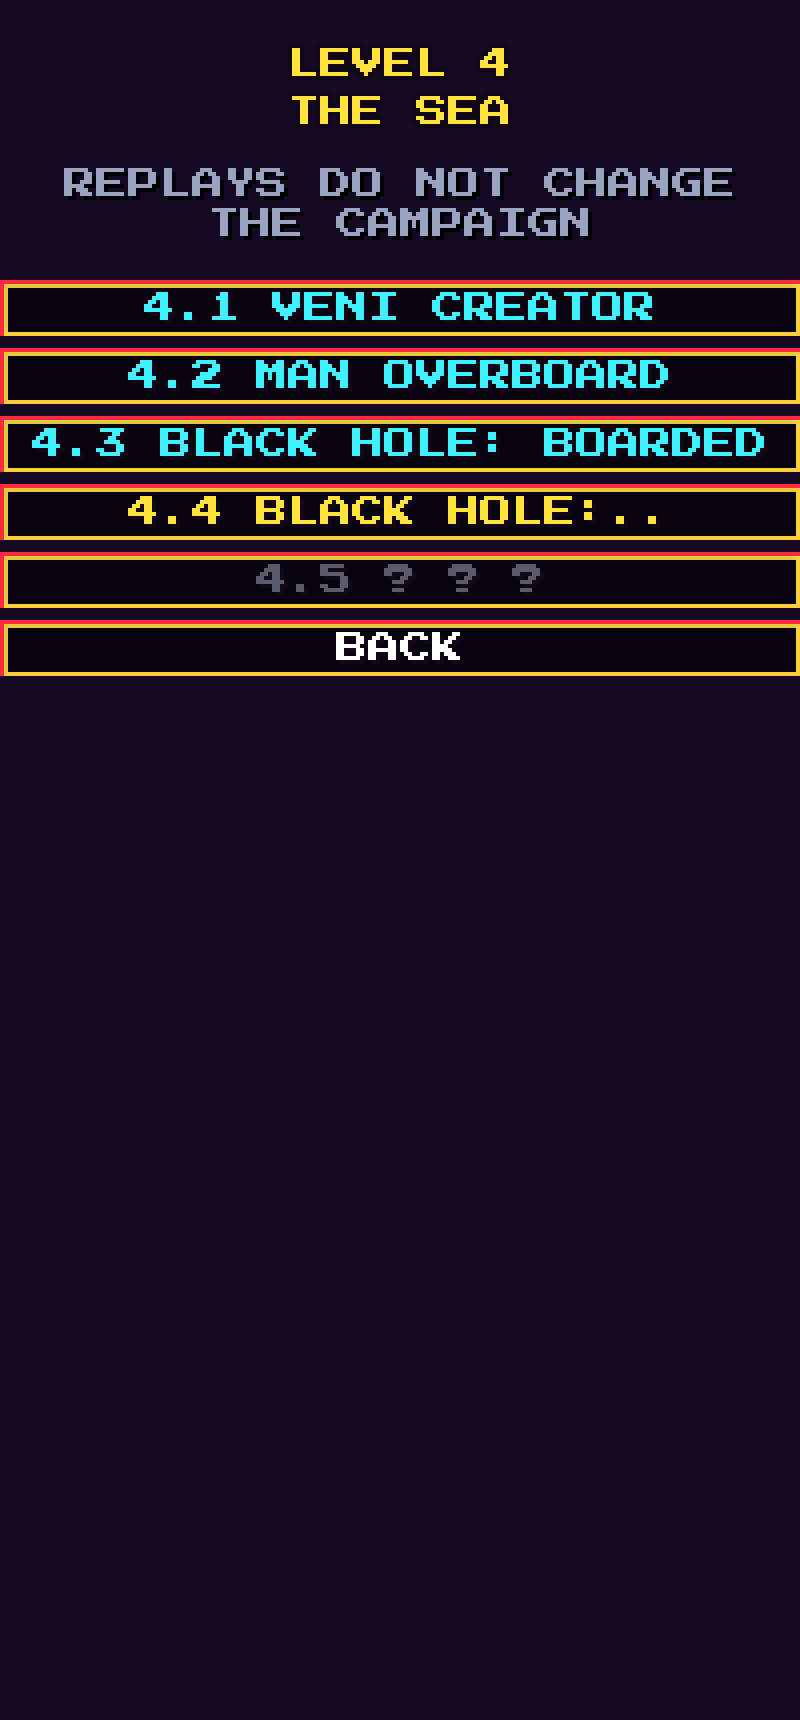
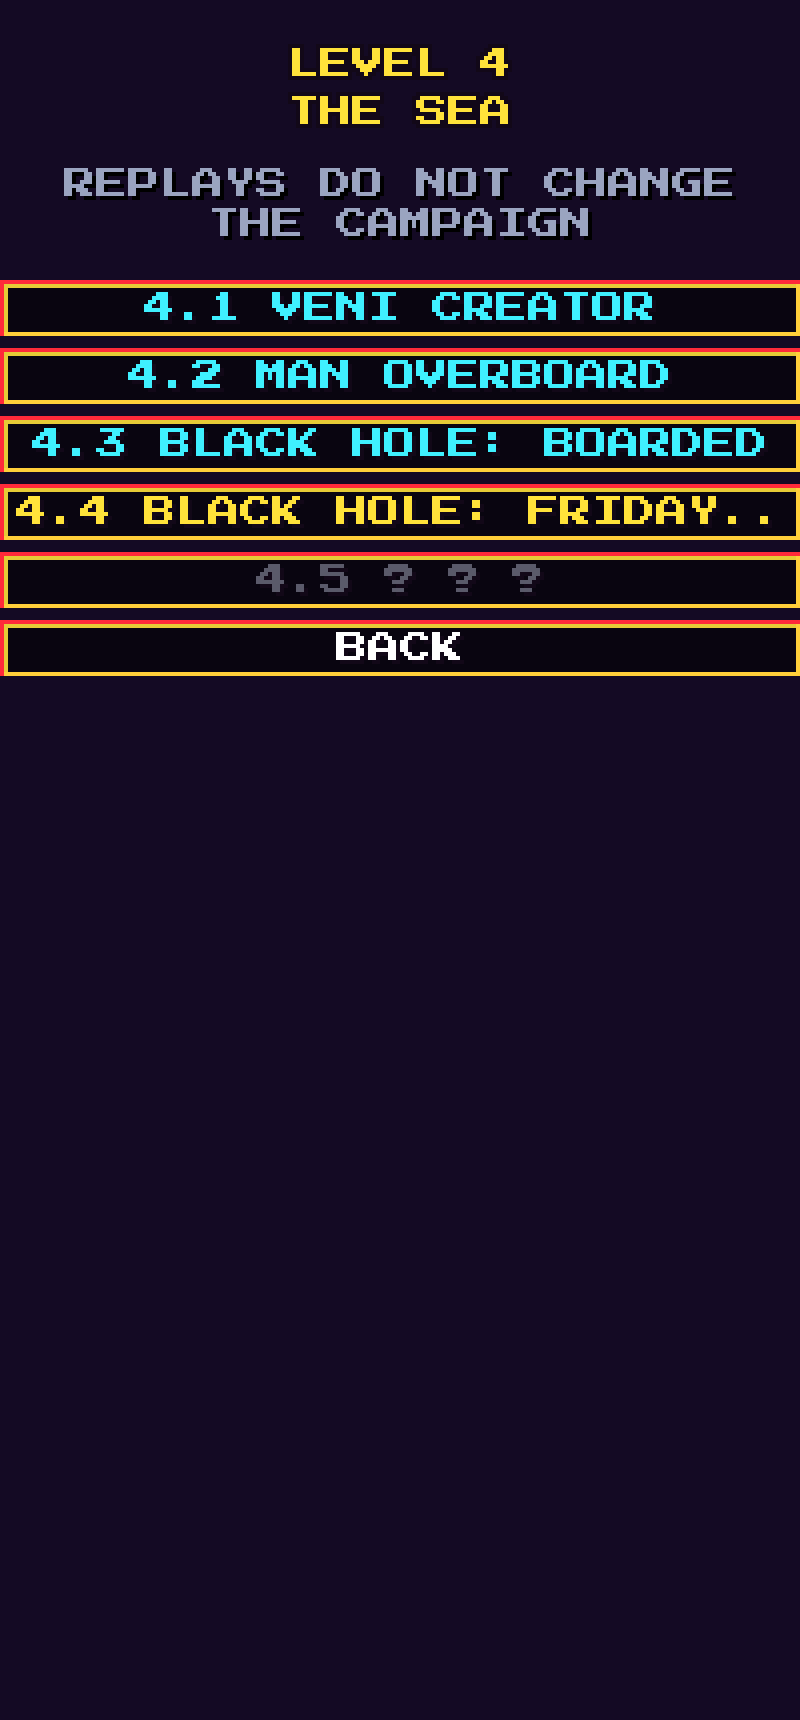
Fix review findings in the story engine
- RESTART SCENE no longer fades Commozione again (only a fresh visit does).
- Pace relief counts only companions who fell in and follow him, not
  bystanders who stayed back (Saint-Pol, Sbrimbrulon, Watson by Standing).
- Clamp the autopilot skill URL parameter; autopilot timers use the step dt;
  autopilot tuning moved to STORY.PILOT in config.ts.
- Meraviglia book builds each row's text once and frees it on close.
- Level list truncation keeps a complete last word.

Claude-Session: https://claude.ai/code/session_01M83brc3uYNtkMe9oqkk4LQ

Changed region(s): [[0.1562, 0.2773, 0.9062, 0.3081], [0.0938, 0.2773, 0.125, 0.3081], [0.0312, 0.2773, 0.0625, 0.3081]]

diff --git a/src/story/screens.ts b/src/story/screens.ts
@@ -155,7 +155,10 @@ export class StoryChapterScene implements Scene {
       const open = done || k === firstOpen;
       // Fit the 200-px row: cut at a word boundary and mark the cut.
       let label = `${sub.id} ${sub.title.toUpperCase()}`;
-      if (label.length > 24) label = label.slice(0, 22).replace(/\s+\S*$/, '') + '..';
+      if (label.length > 24) {
+        const cut = label.slice(0, 22);
+        label = (label[22] === ' ' ? cut : cut.replace(/\s+\S*$/, '')).trimEnd() + '..';
+      }
       return {
         label: open ? label : `${sub.id} ? ? ?`,
         action: () => (open ? actions.play(sub) : this.game.audio.play('empty')),
@@ -273,6 +276,8 @@ export class BookScene implements Scene {
   private readonly foot = new PixelText('', { color: '#6a4a20' }).setOrigin(0.5, 0);
   private rows: BookRow[] = [];
   private pages: BookRow[][] = [];
+  /** One text per row, built once per layout and reused for paging and drawing. */
+  private texts = new Map<BookRow, PixelText>();
   private page = 0;
   private w = 216;
   private h = 400;
@@ -332,27 +337,40 @@ export class BookScene implements Scene {
     this.page = Math.min(this.page, this.pages.length - 1);
   }
 
-  private makeText(r: BookRow): PixelText {
-    return new PixelText(r.text, { color: r.head ? '#8a2a10' : '#3a2410', maxWidth: this.w - (r.icon ? 40 : 24), lineGap: 2 });
+  private textFor(r: BookRow): PixelText {
+    let t = this.texts.get(r);
+    if (!t) {
+      t = new PixelText(r.text, { color: r.head ? '#8a2a10' : '#3a2410', maxWidth: this.w - (r.icon ? 40 : 24), lineGap: 2 });
+      this.texts.set(r, t);
+    }
+    return t;
   }
 
   private rowHeight(r: BookRow): number {
     if (!r.text) return 6;
-    const t = this.makeText(r);
-    const hgt = Math.max(r.icon ? 12 : 0, t.textHeight) + 4;
-    t.destroy();
-    return hgt;
+    return Math.max(r.icon ? 12 : 0, this.textFor(r).textHeight) + 4;
+  }
+
+  exit(): void {
+    this.clearTexts();
+  }
+
+  private clearTexts(): void {
+    this.pageRoot.removeChildren();
+    for (const t of this.texts.values()) t.destroy();
+    this.texts.clear();
   }
 
   private show(): void {
-    for (const c of this.pageRoot.removeChildren()) c.destroy();
+    // Texts are owned by `texts`; icons are made per page.
+    for (const c of this.pageRoot.removeChildren()) if (!(c instanceof PixelText)) c.destroy();
     let y = 40;
     for (const r of this.pages[this.page] ?? []) {
       if (!r.text) {
         y += 6;
         continue;
       }
-      const t = this.makeText(r);
+      const t = this.textFor(r);
       let x = 12;
       if (r.icon) {
         const icon = new Sprite(textures.get(spriteName(r.icon)));
@@ -363,7 +381,7 @@ export class BookScene implements Scene {
       }
       t.position.set(x, y);
       this.pageRoot.addChild(t);
-      y += Math.max(r.icon ? 12 : 0, t.textHeight) + 4;
+      y += this.rowHeight(r);
     }
     this.foot.setText(`PAGE ${this.page + 1}/${this.pages.length}  TAP: NEXT`);
   }
@@ -376,6 +394,7 @@ export class BookScene implements Scene {
     this.bg.rect(4, 4, w - 8, 2).fill(0xc8a060);
     this.title.position.set(Math.round(w / 2), 10);
     this.foot.position.set(Math.round(w / 2), h - 18);
+    this.clearTexts();
     this.build();
     this.paginate();
     this.show();

diff --git a/src/story/autopilot.ts b/src/story/autopilot.ts
@@ -61,6 +61,8 @@ export class Autopilot {
   private seenAngle = 0;
   private angleChangedAt = 0;
   private clock = 0;
+  /** Length of the current logic step (set by beginStep). */
+  private dt = 1 / 60;
 
   constructor(readonly policy: PilotPolicy = DEFAULT_POLICY) {
     // Spread small seeds (1, 2, 3...) over the whole state space, then warm up.
@@ -88,6 +90,7 @@ export class Autopilot {
   /** Called by StoryScene before the current step updates. */
   beginStep(dt: number, ctx: StoryScene): void {
     this.clock += dt;
+    this.dt = dt;
     for (const [k, t] of this.timers) this.timers.set(k, t - dt);
     ctx.game.input.override = { x: 0, y: 0 };
   }
@@ -165,29 +168,29 @@ export class Autopilot {
     const mag = o.run ? STORY.PILOT.RUN_MAG : STORY.PILOT.WALK_MAG;
     // Stuck: wiggle for a moment.
     if (this.jitterT > 0) {
-      this.jitterT -= 1 / 60;
+      this.jitterT -= this.dt;
       this.stick(ctx, this.jitter.x, this.jitter.y, mag, o.scramble ?? 0);
       return false;
     }
-    this.stuckT += 1 / 60;
+    this.stuckT += this.dt;
     if (this.stuckT > STORY.PILOT.STUCK_TIME) {
       const moved = Math.hypot(p.gx - this.stuckFrom.x, p.gy - this.stuckFrom.y);
       this.stuckT = 0;
       this.stuckFrom = { x: p.gx, y: p.gy };
-      if (moved < 0.3) {
+      if (moved < STORY.PILOT.STUCK_DIST) {
         const a = this.random() * Math.PI * 2;
         this.jitter = { x: Math.cos(a), y: Math.sin(a) };
-        this.jitterT = 0.6;
+        this.jitterT = STORY.PILOT.JITTER_TIME;
         this.path = [];
       }
     }
     const ti = Math.floor(target.x);
     const tj = Math.floor(target.y);
     const key = `${ti},${tj}`;
-    this.repathT -= 1 / 60;
+    this.repathT -= this.dt;
     if (key !== this.pathTarget || this.repathT <= 0 || !this.path.length) {
       this.pathTarget = key;
-      this.repathT = 0.25;
+      this.repathT = STORY.PILOT.REPATH;
       this.path = this.findPath(ctx, Math.floor(p.gx), Math.floor(p.gy), ti, tj, o.danger);
     }
     // Next waypoint: the first path tile whose center is not under us.

diff --git a/src/story/walk.ts b/src/story/walk.ts
@@ -354,9 +354,10 @@ class WalkStep implements Step {
       delta = P.STILL;
       warn = 'KEEP THE PACE';
     }
+    // Only companions who fell in (following him) steady his nerve, not bystanders on the path.
     const beside = (this.def.pace!.companions ?? []).filter((n) => {
       const a = ctx.actors.get(n);
-      return a && Math.hypot(a.gx - p.gx, a.gy - p.gy) < 3;
+      return a && a.behavior.kind === 'follow' && a.behavior.target === p && Math.hypot(a.gx - p.gx, a.gy - p.gy) < STORY.PACE.COMPANION_RANGE;
     }).length;
     delta -= Math.max(0, (this.def.pace!.pressure ?? 0) - beside * P.COMPANION_RELIEF);
     if (delta < 0 && unshakeable(ctx.state)) delta *= P.UNSHAKEABLE;
@@ -531,15 +532,16 @@ class WalkStep implements Step {
     const guards = [...ctx.actors.values()].filter((a) => a.sight);
     const hostiles = [...ctx.actors.values()].filter((a) => a.hostile);
     const fire = this.fire;
+    const D = STORY.PILOT.DANGER;
     const danger = (i: number, j: number): number => {
       if (fire.has(map.index(i, j))) return Infinity;
       let d = 0;
-      for (const n of [map.index(i + 1, j), map.index(i - 1, j), map.index(i, j + 1), map.index(i, j - 1)]) if (fire.has(n)) d += 6;
+      for (const n of [map.index(i + 1, j), map.index(i - 1, j), map.index(i, j + 1), map.index(i, j - 1)]) if (fire.has(n)) d += D.NEAR_FIRE;
       for (const h of hostiles) {
         const r = Math.hypot(h.gx - (i + 0.5), h.gy - (j + 0.5));
-        if (r < 2.2) d += (2.2 - r) * 25;
+        if (r < D.HOSTILE_RADIUS) d += (D.HOSTILE_RADIUS - r) * D.HOSTILE_COST;
       }
-      for (const g of guards) if (canSee(map, g, i + 0.5, j + 0.5)) d += 40;
+      for (const g of guards) if (canSee(map, g, i + 0.5, j + 0.5)) d += D.SEEN;
       return d;
     };
     const run = !this.def.pace && !this.def.noRun && (hostiles.length > 0 || this.fireOn);

diff --git a/src/config.ts b/src/config.ts
@@ -282,8 +282,9 @@ export const STORY = {
     BACK_DOT: -0.3,
     /** Drain multiplier when Supervillain is full. */
     UNSHAKEABLE: 0.4,
-    /** Pressure removed per companion walking beside him. */
+    /** Pressure removed per companion walking beside him (within COMPANION_RANGE tiles). */
     COMPANION_RELIEF: 0.012,
+    COMPANION_RANGE: 3,
     WARN_EVERY: 1.4,
   },
   THIRST: { MIN_SPEED: 0.55, MIRAGE_NEAR: 3.5, MIRAGE_JUMP: 3.5 },
@@ -323,5 +324,19 @@ export const STORY = {
   /** Grace tiers (8.2 altar, ending). */
   GRACE: { HIGH: 70, LOW: 40 },
   /** Autopilot (automated playtests). */
-  PILOT: { WALK_MAG: 0.7, RUN_MAG: 1, CONFIRM_EVERY: 0.22, STUCK_TIME: 2.5, LADDER_TAPS: 6, TUG_TAPS: 8 },
+  PILOT: {
+    WALK_MAG: 0.7,
+    RUN_MAG: 1,
+    CONFIRM_EVERY: 0.22,
+    STUCK_TIME: 2.5,
+    STUCK_DIST: 0.3,
+    JITTER_TIME: 0.6,
+    REPATH: 0.25,
+    LADDER_TAPS: 6,
+    /** Falling things within this many px above him count as a threat. */
+    LADDER_LOOKAHEAD: 150,
+    TUG_TAPS: 8,
+    /** Path costs: near a hostile, seen by a guard, next to fire. */
+    DANGER: { HOSTILE_RADIUS: 2.2, HOSTILE_COST: 25, SEEN: 40, NEAR_FIRE: 6 },
+  },
 } as const;

diff --git a/src/story/storyFlow.ts b/src/story/storyFlow.ts
@@ -136,12 +136,13 @@ export class StoryFlow {
     );
   }
 
-  private startSub(ch: ChapterDef, sub: SubLevelDef): void {
+  private startSub(ch: ChapterDef, sub: SubLevelDef, restart = false): void {
     const scene = new StoryScene(this.game, this.replaying ? structuredClone(this.state) : this.state, ch, sub, {
       onFinished: () => this.finishSub(ch, sub),
       onMenu: () => this.pause(ch, sub),
     });
     scene.persist = !this.replaying;
+    scene.fade = !restart;
     if (this.autopilot) scene.pilot = new Autopilot({ ...this.autopilot, seed: (this.autopilot.seed ?? 1) + this.log.length });
     this.game.scenes.replaceAll(scene);
   }
@@ -223,7 +224,7 @@ export class StoryFlow {
     this.game.scenes.push(
       new StoryPauseScene(this.game, {
         resume,
-        restart: () => this.glitch(() => this.startSub(ch, sub)),
+        restart: () => this.glitch(() => this.startSub(ch, sub, true)),
         skip: () => this.glitch(() => this.finishSub(ch, sub)),
         book: () => this.game.scenes.push(new BookScene(this.game, this.state, () => this.game.scenes.pop())),
         sound: () => {

diff --git a/src/story/storyScene.ts b/src/story/storyScene.ts
@@ -67,6 +67,8 @@ export class StoryScene implements Scene {
   locked = false;
   /** False for replays: nothing this scene changes is saved. */
   persist = true;
+  /** False when the scene is restarted from the pause menu: the feeling already faded once. */
+  fade = true;
   /** Automated playtest driver (null in normal play). */
   pilot: Autopilot | null = null;
   /** Playtest counters: how often the player had to start a walk or mini-game again. */
@@ -93,7 +95,7 @@ export class StoryScene implements Scene {
   enter(): void {
     this.queue = this.sub.script();
     // The feeling fades between dream scenes: wonder and weeping have to keep filling it.
-    const lost = fadeCommozione(this.state, this.chapter.number);
+    const lost = this.fade ? fadeCommozione(this.state, this.chapter.number) : 0;
     if (lost) {
       if (this.persist) saveCampaign(this.state);
       this.notice(`-${lost} COMMOZIONE: THE FEELING FADES`, '#9aa4c0', 2.5);

diff --git a/src/story/minigames/action.ts b/src/story/minigames/action.ts
@@ -205,7 +205,7 @@ export class LaddersGame extends MiniGame {
   override pilot(_dt: number, ctx: StoryScene, p: Autopilot): void {
     const heroY = this.rungY(this.rung);
     const threat = (lane: number) =>
-      this.falling.some((f) => f.lane === lane && (f.warn > 0 || (f.y < heroY && f.y > heroY - 150)));
+      this.falling.some((f) => f.lane === lane && (f.warn > 0 || (f.y < heroY && f.y > heroY - STORY.PILOT.LADDER_LOOKAHEAD)));
     const axeLanes = this.hard && this.rung > this.rungs - 3 ? [this.axeLane, (this.axeLane + 2) % 3] : [];
     const bad = (lane: number) => threat(lane) || axeLanes.includes(lane);
     if (bad(this.lane)) {

diff --git a/src/main.ts b/src/main.ts
@@ -52,7 +52,10 @@ async function boot(): Promise<void> {
     if (params.get('auto')) {
       flow.story.autopilot = {
         ...DEFAULT_POLICY,
-        skill: Number(params.get('skill') ?? DEFAULT_POLICY.skill),
+        skill: (() => {
+          const k = Number(params.get('skill') ?? DEFAULT_POLICY.skill);
+          return Number.isFinite(k) ? Math.max(0, Math.min(1, k)) : DEFAULT_POLICY.skill;
+        })(),
         ending: params.get('ending') === 'alpha' ? 'alpha' : 'knight',
         choice: (['first', 'last', 'random'] as const).find((c) => c === params.get('choice')) ?? 'first',
       };

diff --git a/docs/PLAYTEST.md b/docs/PLAYTEST.md
@@ -15,38 +15,38 @@ Columns: game seconds; restarts of a walk (caught, nerve broken, fell back); tim
 | 1.5 | 7 | 0 | 0 | 0 | - | 20/16/70/50 | ok |
 | 2.1 | 17 | 1 | 1 | 0 | - | 18/16/70/50 | ok |
 | 2.2 | 20 | 0 | 0 | 0 | - | 16/16/70/50 | ok |
-| 2.3 | 7 | 0 | 0 | 0 | - | 18/16/70/50 | ok |
-| 2.4 | 3 | 0 | 0 | 0 | - | 16/16/75/50 | ok |
-| 2.5 | 4 | 0 | 0 | 0 | - | 14/26/75/50 | ok |
-| 3.1 | 15 | 0 | 0 | 0 | - | 27/26/75/50 | ok |
-| 3.2 | 25 | 0 | 0 | 0 | - | 25/26/75/50 | ok |
-| 3.3 | 27 | 0 | 0 | 0 | Rhythm:won Rhythm:won | 54/26/75/50 | ok |
-| 3.4 | 13 | 1 | 1 | 0 | - | 52/26/75/50 | ok |
-| 4.1 | 13 | 0 | 0 | 0 | Rhythm:won | 58/26/75/50 | ok |
-| 4.2 | 11 | 0 | 0 | 0 | Calm:won | 64/26/75/50 | ok |
-| 4.3 | 4 | 0 | 0 | 0 | - | 62/30/75/50 | ok |
-| 4.4 | 6 | 0 | 0 | 0 | - | 52/30/75/50 | ok |
-| 4.5 | 8 | 0 | 0 | 0 | - | 59/30/75/50 | ok |
-| 5.1 | 6 | 0 | 0 | 0 | - | 47/35/75/35 | ok |
-| 5.2 | 5 | 0 | 0 | 0 | Ladders:won | 45/39/75/35 | ok |
-| 5.3 | 3 | 0 | 0 | 0 | - | 37/39/87/35 | ok |
-| 5.4 | 3 | 0 | 0 | 0 | Letter:won | 35/39/92/35 | ok |
-| 5.5 | 2 | 0 | 0 | 0 | - | 33/39/92/35 | ok |
-| 6.1 | 19 | 0 | 0 | 0 | Catapult:won | 36/39/82/40 | ok |
-| 6.2 | 8 | 0 | 0 | 0 | Rumour:won | 34/42/82/40 | ok |
-| 6.3 | 14 | 0 | 0 | 0 | - | 32/46/82/40 | ok |
-| 6.4 | 15 | 0 | 0 | 0 | - | 30/46/82/40 | ok |
-| 6.5 | 6 | 0 | 0 | 0 | - | 18/72/82/40 | ok |
-| 6.6 | 3 | 0 | 0 | 0 | - | 16/72/82/45 | ok |
-| 7.1 | 21 | 0 | 0 | 0 | - | 23/72/82/45 | ok |
-| 7.2 | 11 | 0 | 0 | 0 | Ladders:won | 21/80/82/50 | ok |
-| 7.3 | 13 | 0 | 0 | 0 | - | 19/95/82/50 | ok |
-| 7.4 | 22 | 0 | 0 | 0 | - | 26/95/82/50 | ok |
-| 7.5 | 9 | 0 | 0 | 0 | - | 24/95/82/50 | ok |
-| 7.6 | 5 | 0 | 0 | 0 | - | 22/100/82/54 | ok |
-| 7.7 | 21 | 0 | 0 | 0 | Tug:lost | 26/100/87/54 | ok |
-| 7.8 | 28 | 0 | 0 | 0 | - | 24/100/92/44 | ok |
-| 8.1 | 13 | 0 | 0 | 0 | - | 24/100/92/44 | ok |
-| 8.2 | 16 | 0 | 0 | 0 | - | 34/100/92/44 | ok |
-| 8.3 | 13 | 0 | 0 | 0 | - | 34/100/92/44 | ok |
-| 8.4 | 6 | 0 | 0 | 0 | - | 34/100/92/44 | ok |
+| 2.3 | 8 | 0 | 0 | 0 | - | 14/16/70/50 | ok |
+| 2.4 | 3 | 0 | 0 | 0 | - | 12/16/75/50 | ok |
+| 2.5 | 4 | 0 | 0 | 0 | - | 10/26/75/50 | ok |
+| 3.1 | 15 | 0 | 0 | 0 | - | 23/26/75/50 | ok |
+| 3.2 | 25 | 0 | 0 | 0 | - | 21/26/75/50 | ok |
+| 3.3 | 27 | 0 | 0 | 0 | Rhythm:won Rhythm:won | 50/26/75/50 | ok |
+| 3.4 | 13 | 0 | 0 | 0 | - | 48/26/75/50 | ok |
+| 4.1 | 13 | 0 | 0 | 0 | Rhythm:won | 54/26/75/50 | ok |
+| 4.2 | 11 | 0 | 0 | 0 | Calm:won | 60/26/75/50 | ok |
+| 4.3 | 4 | 0 | 0 | 0 | - | 58/30/75/50 | ok |
+| 4.4 | 6 | 0 | 0 | 0 | - | 48/30/75/50 | ok |
+| 4.5 | 8 | 0 | 0 | 0 | - | 55/30/75/50 | ok |
+| 5.1 | 6 | 0 | 0 | 0 | - | 43/35/75/35 | ok |
+| 5.2 | 5 | 0 | 0 | 0 | Ladders:won | 41/39/75/35 | ok |
+| 5.3 | 3 | 0 | 0 | 0 | - | 33/39/87/35 | ok |
+| 5.4 | 3 | 0 | 0 | 0 | Letter:won | 31/39/92/35 | ok |
+| 5.5 | 2 | 0 | 0 | 0 | - | 29/39/92/35 | ok |
+| 6.1 | 19 | 0 | 0 | 0 | Catapult:won | 32/39/82/40 | ok |
+| 6.2 | 7 | 0 | 0 | 0 | Rumour:won | 30/42/82/40 | ok |
+| 6.3 | 14 | 0 | 0 | 0 | - | 28/46/82/40 | ok |
+| 6.4 | 15 | 0 | 0 | 0 | - | 26/46/82/40 | ok |
+| 6.5 | 6 | 0 | 0 | 0 | - | 14/72/82/40 | ok |
+| 6.6 | 3 | 0 | 0 | 0 | - | 12/72/82/45 | ok |
+| 7.1 | 21 | 0 | 0 | 0 | - | 19/72/82/45 | ok |
+| 7.2 | 9 | 0 | 0 | 0 | Ladders:won | 17/80/82/50 | ok |
+| 7.3 | 13 | 0 | 0 | 0 | - | 15/95/82/50 | ok |
+| 7.4 | 22 | 0 | 0 | 0 | - | 22/95/82/50 | ok |
+| 7.5 | 10 | 0 | 0 | 0 | - | 20/95/82/50 | ok |
+| 7.6 | 5 | 0 | 0 | 0 | - | 18/100/82/54 | ok |
+| 7.7 | 21 | 0 | 0 | 0 | Tug:lost | 22/100/87/54 | ok |
+| 7.8 | 28 | 0 | 0 | 0 | - | 20/100/92/44 | ok |
+| 8.1 | 16 | 0 | 0 | 0 | - | 20/100/92/44 | ok |
+| 8.2 | 16 | 0 | 0 | 0 | - | 30/100/92/44 | ok |
+| 8.3 | 13 | 0 | 0 | 0 | - | 30/100/92/44 | ok |
+| 8.4 | 6 | 0 | 0 | 0 | - | 30/100/92/44 | ok |

diff --git a/DECISIONS.md b/DECISIONS.md
@@ -291,3 +291,9 @@ itself that it "is not a playable build"; this phase turns it into one, on the s
 - **Bugs found on the way**: changing stage inside a sub-level destroyed the scene's own particle
   and popup layers (crash at the next burst; it surfaced as soon as the bot played everything);
   a catapult shot could break every glass with shots to spare and the game then waited forever.
+- **Review fixes**: RESTART SCENE no longer fades Commozione a second time (only a fresh visit
+  does); only companions who actually fell in beside him (following him) ease the pace pressure,
+  not bystanders on the path who stayed back for lack of Standing; the autopilot's `skill` URL
+  parameter is clamped, its timers use the real step length, and its tuning lives in
+  `STORY.PILOT`; the Meraviglia book builds each line's text once; scene titles in the level list
+  keep a complete last word when shortened.
